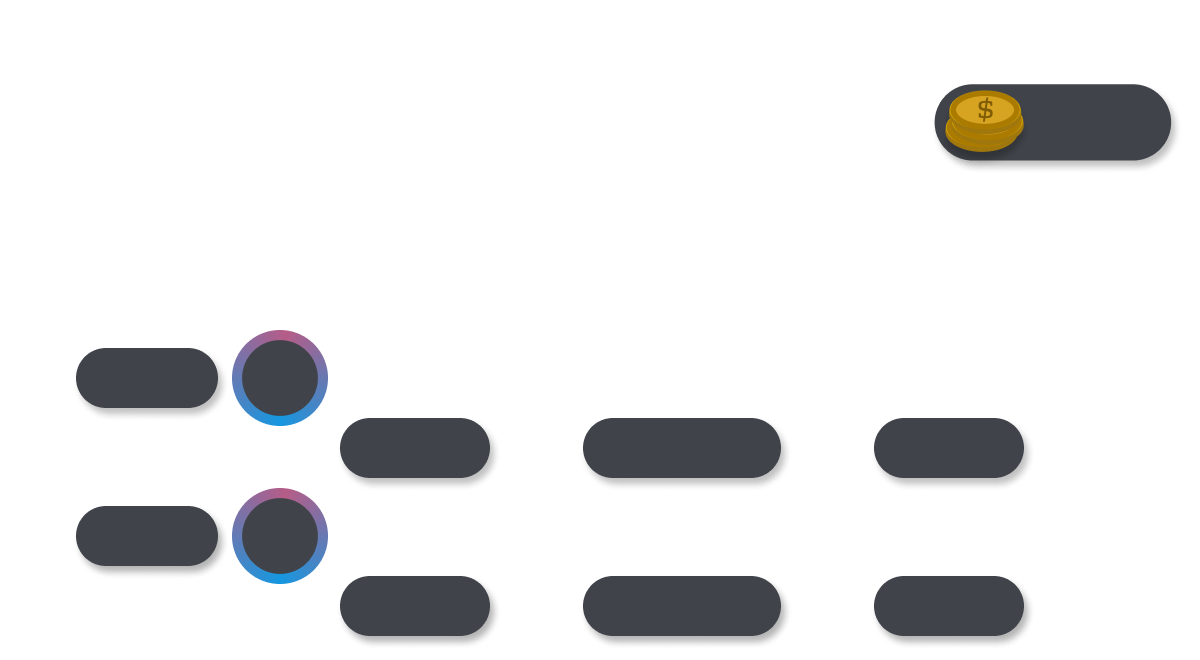
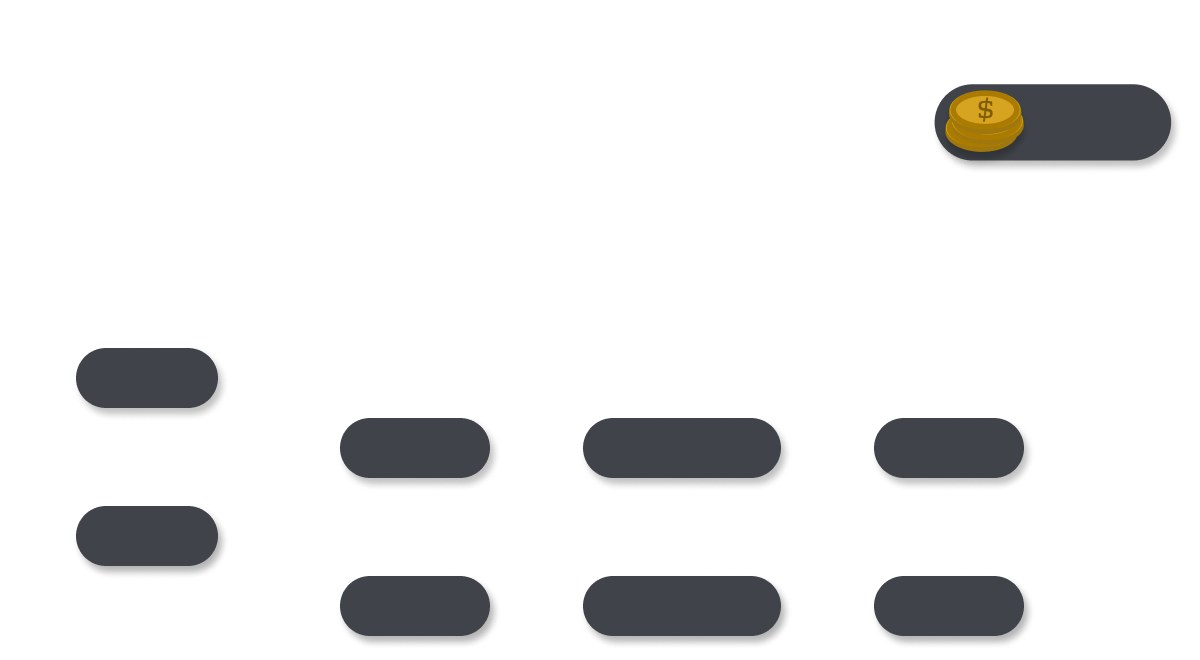
Added ranks to profile card

Changed region(s): [[0.185, 0.7273, 0.2775, 0.9091], [0.185, 0.4848, 0.2775, 0.6667]]

diff --git a/Lunaris/src/modules/Profiles/profile.js b/Lunaris/src/modules/Profiles/profile.js
@@ -1,12 +1,20 @@
 const { createCanvas, loadImage } = require('canvas');
-const { join } = require('path')
+const { join } = require('path');
+const GuildMembers = require('../../database/schemas/GuildMembers');
 const Profile = require("../../database/schemas/Profile");
+const { getTextRank, getVoiceRank } = require('../xpSystem/ranking');
 
 function neededXp(level) {
     return level * (200 + level * 15);
 }
 
-async function getProfile(userId) {
+async function getGuildProfile(guildId, userId) {
+    const profile = await GuildMembers.findOne({ guildId, userId });
+    if(!profile) return GuildMembers.create({ guildId, userId });
+    return profile;
+}
+
+async function getGlobalProfile(userId) {
     const profile = await Profile.findOne({ userId });
     if(!profile) return Profile.create({ userId });
     return profile;
@@ -18,13 +26,14 @@ async function setProfile(userId, fieldToSet, valueToSet) {
     }, { new: true, upsert: true });
 }
 
-async function generateProfileCard(member, profile, avatarURL) {
+async function generateProfileCard(member, profile, globalProfile, avatarURL) {
     const canvas = createCanvas(1200, 660);
     const ctx = canvas.getContext('2d');
 
     await drawXpBars(ctx, profile);
+    await drawLevelRings(ctx, profile);
     await drawAvatar(ctx, avatarURL);
-    await drawBackground(ctx, profile);
+    await drawBackground(ctx, profile, globalProfile);
     await drawNickname(ctx, member);
 
     const overlay = await loadImage(join(__dirname, 'assets', 'elements', 'Overlay.png'));
@@ -39,11 +48,10 @@ async function generateProfileCard(member, profile, avatarURL) {
     ctx.fillStyle = '#FFF';
     ctx.font = `30px Roboto`;
     ctx.textAlign = 'center';
-    ctx.fillText(profile.coins, 945.42+118.27, 84.28+(76.26/2), 140);
+    ctx.fillText(globalProfile.coins, 945.42+118.27, 84.28+(76.26/2), 140);
 
     await drawTextXPData(ctx, profile);
     await drawVoiceXPData(ctx, profile);
-    await drawLevelRings(ctx, profile);
 
 
     return canvas.toBuffer();
@@ -60,17 +68,17 @@ async function drawAvatar(ctx, avatarURL) {
     ctx.restore();
 }
 
-async function drawBackground(ctx, profile) {
+async function drawBackground(ctx, profile, globalProfile) {
     let backgroundImage;
-    if(profile.cardAppearance.customBackground) {
-        backgroundImage = await loadImage(profile.cardAppearance.customBackground);
-    } else backgroundImage = await loadImage(join(__dirname, 'assets', 'backgrounds', `${profile.cardAppearance.background}.svg`))
+    if(globalProfile.cardAppearance.customBackground) {
+        backgroundImage = await loadImage(globalProfile.cardAppearance.customBackground);
+    } else backgroundImage = await loadImage(join(__dirname, 'assets', 'backgrounds', `${globalProfile.cardAppearance.background}.svg`))
     ctx.drawImage(backgroundImage, 0, 0, 1200, 660);
 }
 
 async function drawNickname(ctx, member) {
     const nicknameBg = await loadImage(join(__dirname, 'assets', 'elements', 'NicknameField.svg'));
-    ctx.drawImage(nicknameBg, 536, 6, 368, 124);
+    ctx.drawImage(nicknameBg, 532, 4, 376, 128);
     ctx.font = "30px Roboto";
     ctx.fillStyle = '#FFF';
     ctx.textAlign = 'center';
@@ -91,7 +99,8 @@ async function drawTextXPData(ctx, profile) {
     ctx.fillText(`${profile.statistics.text.xp}/${xpNeeded}`, 583 + 99, 418 + 30, 190);
 
     // Ranking
-    ctx.fillText('#0', 76 + 71, 348 + 30, 140);
+    const rank = await getTextRank(profile.guildId, profile.userId);
+    ctx.fillText(`#${rank}`, 76 + 71, 348 + 30, 140);
 }
 
 async function drawVoiceXPData(ctx, profile) {
@@ -107,7 +116,8 @@ async function drawVoiceXPData(ctx, profile) {
     ctx.fillText(`${profile.statistics.voice.xp}/${xpNeeded}`, 583 + 99, 576 + 30, 190);
 
     // Ranking
-    ctx.fillText('#0', 76 + 71, 506 + 30, 140);
+    const rank = await getVoiceRank(profile.guildId, profile.userId);
+    ctx.fillText(`#${rank}`, 76 + 71, 506 + 30, 140);
 }
 
 async function drawXpBars(ctx, profile) {
@@ -144,18 +154,20 @@ async function drawLevelRings(ctx, profile) {
     const xTextPercentage = 360 * textPercentage + 90;
     const xVoicePercentage = 360 * voicePercentage + 90;
 
-    console.log(xpText, neededXpText, textPercentage, xTextPercentage);
+    const gradientRing = await loadImage(join(__dirname, 'assets', 'elements', 'LevelRing.png'));
+    ctx.drawImage(gradientRing, 228, 324, 106, 106);
+    ctx.drawImage(gradientRing, 228, 484, 106, 106);
 
     ctx.beginPath();
     ctx.strokeStyle = '#36393F';
-    ctx.lineWidth = '10';
-    ctx.arc(232 + 48, 330 + 48, 43, xTextPercentage * Math.PI / 180, 90 * Math.PI / 180);
+    ctx.lineWidth = '14';
+    xTextPercentage === 90 ? ctx.arc(232 + 48, 330 + 48, 42, 0, 2 * Math.PI) : ctx.arc(232 + 48, 330 + 48, 42, xTextPercentage * Math.PI / 180, 90 * Math.PI / 180);
     ctx.stroke();
     ctx.closePath();
     ctx.beginPath();
-    ctx.arc(232 + 48, 488 + 48, 43, xVoicePercentage * Math.PI / 180, 90 * Math.PI / 180);
+    xVoicePercentage === 90 ? ctx.arc(232 + 48, 488 + 48, 42, 0, 2 * Math.PI) : ctx.arc(232 + 48, 488 + 48, 42, xVoicePercentage * Math.PI / 180, 90 * Math.PI / 180);
     ctx.stroke();
     ctx.closePath();
 }
 
-module.exports = { getProfile, generateProfileCard, setProfile, neededXp }
+module.exports = { getGuildProfile, getGlobalProfile, generateProfileCard, setProfile, neededXp }

diff --git a/Lunaris/src/database/schemas/GuildMembers.js b/Lunaris/src/database/schemas/GuildMembers.js
@@ -10,6 +10,48 @@ const GuildMembersSchema = new mongoose.Schema({
         type: mongoose.SchemaTypes.String,
         required: true,
     },
+    statistics: {
+        text: {
+            level: {
+                type: mongoose.SchemaTypes.Number,
+                default: 1
+            },
+            xp: {
+                type: mongoose.SchemaTypes.Number,
+                default: 0
+            },
+            totalXp: {
+                type: mongoose.SchemaTypes.Number,
+                default: 0
+            },
+            todayXp: {
+                type: mongoose.SchemaTypes.Number,
+                default: 0
+            }
+        },
+        voice: {
+            level: {
+                type: mongoose.SchemaTypes.Number,
+                default: 1
+            },
+            xp: {
+                type: mongoose.SchemaTypes.Number,
+                default: 0
+            },
+            totalXp: {
+                type: mongoose.SchemaTypes.Number,
+                default: 0
+            },
+            todayXp: {
+                type: mongoose.SchemaTypes.Number,
+                default: 0
+            },
+            timeSpent: {
+                type: mongoose.SchemaTypes.Number,
+                default: 0
+            }
+        }
+    },
     muted: {
         isMuted: {
             type: mongoose.SchemaTypes.Boolean,

diff --git a/Lunaris/src/commands/misc/profiles/profile.js b/Lunaris/src/commands/misc/profiles/profile.js
@@ -1,4 +1,4 @@
-const { getProfile, generateProfileCard } = require("../../../modules/Profiles/profile");
+const { getGuildProfile, generateProfileCard, getGlobalProfile } = require("../../../modules/Profiles/profile");
 
 module.exports = {
     name: 'profile',
@@ -35,12 +35,13 @@ module.exports = {
     async run(client, message, args) {
         const member = args[0] ? message.mentions.members.first() || await message.guild.members.fetch(args[0]) : (await message.guild.members.fetch(message.author.id));
         const guildConfig = client.guildConfigs.get(message.guild.id);
-        const language = guildConfig.get('language');
 
-        const profile = await getProfile(member.id);
+        const profile = await getGuildProfile(message.guild.id, member.id);
         if(!profile) return;
+        const globalProfile = await getGlobalProfile(member.id);
+        if(!globalProfile) return;
 
-        const profileCardBuffer = await generateProfileCard(member, profile, member.user.avatarURL({ format: 'png' }));
+        const profileCardBuffer = await generateProfileCard(member, profile, globalProfile, member.user.avatarURL({ format: 'png' }));
 
         return message.channel.send({ files: [profileCardBuffer] });
     }

diff --git a/Lunaris/src/modules/xpSystem/text.js b/Lunaris/src/modules/xpSystem/text.js
@@ -1,17 +1,18 @@
+const GuildMembers = require("../../database/schemas/GuildMembers");
 const Profile = require("../../database/schemas/Profile");
 const { neededXp } = require("../Profiles/profile");
 
-async function addXpText(member) {
+async function addXpText(guildId, userId) {
     const xpToAdd = Math.floor(Math.random() * (10 - 5) + 5);
 
-    let profile = await Profile.findOne({ userId: member.id });
+    let profile = await GuildMembers.findOne({ guildId, userId });
     if(!profile) {
-        profile = await Profile.create({ userId: member.id });
+        profile = await GuildMembers.create({ guildId, userId });
     }
     const { level, xp } = profile.statistics.text;
     const xpNeeded = neededXp(level);
     if(xp + xpToAdd >= xpNeeded) {
-        const rest = xpNeeded - (xp + xpToAdd);
+        const rest = (xp + xpToAdd) - xpNeeded;
 
         profile.statistics.text.level += 1;
         profile.statistics.text.xp = rest;

diff --git a/Lunaris/src/events/message/MessageCreateEvent.js b/Lunaris/src/events/message/MessageCreateEvent.js
@@ -10,12 +10,15 @@ module.exports = class MessageCreateEvent extends BaseEvent {
     async run(client, message) {
         if(message.author.bot) return;
         // if(message.channel.type === "dm") return console.log(`DM > ${message.author.tag}: ${message.content}`)
+        const guildConfig = client.guildConfigs.get(message.guild.id);
+        const prefix = guildConfig.get('prefix');
         commandHandle(client, message);
         
         if(!client.isOnline) return;
         // censor(client, message.guild.id, message, message.member);
 
-        addXpText(message.author);
+        if(!message.content.startsWith(prefix)) 
+            addXpText(message.guild.id, message.author.id);
 
         const count = client.msgCount.get(message.guild.id);
         const date = new Date();

diff --git a/Lunaris/src/modules/xpSystem/ranking.js b/Lunaris/src/modules/xpSystem/ranking.js
@@ -1,0 +1,17 @@
+const GuildMembers = require("../../database/schemas/GuildMembers");
+
+async function getTextRank(guildId, userId) {
+    let collections = await GuildMembers.find({ guildId });
+    collections = collections.sort((a, b) => b.statistics.text.totalXp - a.statistics.text.totalXp)
+
+    return collections.findIndex(x => x.userId === userId) + 1;
+}
+
+async function getVoiceRank(guildId, userId) {
+    let collections = await GuildMembers.find({ guildId });
+    collections = collections.sort((a, b) => b.statistics.voice.totalXp - a.statistics.voice.totalXp)
+
+    return collections.findIndex(x => x.userId === userId) + 1;
+}
+
+module.exports = { getTextRank, getVoiceRank }
